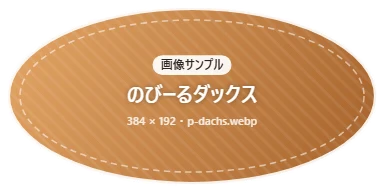
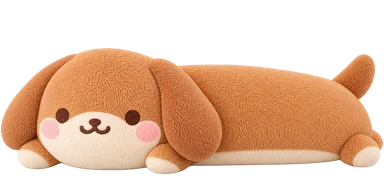
Update crane game assets and documentation
- Marked all images as generated in documentation for crane game.
- Updated the date in captures.json for crane game.
- Enhanced image rendering logic in game.js for better display of prizes.
- Replaced multiple image assets for crane game with new versions.
- Updated thumbnail images for crane game across various resolutions.

diff --git a/public/games/crane-game/game.js b/public/games/crane-game/game.js
@@ -622,13 +622,21 @@
       const bw = Math.min(V.w * 0.8, 340 * L.k), bh = bw * 0.55;
       ctx.fillStyle = 'rgba(255,255,255,.95)'; ctx.beginPath(); ctx.roundRect(-bw / 2, -bh / 2, bw, bh, 22); ctx.fill();
       ctx.strokeStyle = '#ff4f8b'; ctx.lineWidth = 5; ctx.stroke();
-      const isz = bh * 0.62;
-      if (img) { const iw = b.K.box || b.K.shape === 'long' ? isz * 1.6 : isz; ctx.drawImage(img, -bw / 2 + 18, -isz / 2 + 6, iw * (b.K.box ? 1 : 1), isz * (b.K.box ? 0.8 : b.K.shape === 'long' ? 0.8 : 1)); }
+      // the prize's picture in a box on the left, fitted with its own proportions (square plush, lying plush, wide box art);
+      // the words centred in what is left on the right
+      const pad = 18, wide = b.K.box || b.K.shape === 'long';
+      const areaW = bw * (wide ? 0.44 : 0.36), areaH = bh - pad * 2, ax = -bw / 2 + pad, ay = -bh / 2 + pad;
+      if (img) {
+        const iw = img.naturalWidth || img.width || areaW, ih = img.naturalHeight || img.height || areaH;
+        const sc = Math.min(areaW / iw, areaH / ih), dw = iw * sc, dh = ih * sc;
+        ctx.drawImage(img, ax + (areaW - dw) / 2, ay + (areaH - dh) / 2, dw, dh);
+      }
       ctx.textAlign = 'center'; ctx.textBaseline = 'middle';
-      const tx = (b.K.box || b.K.shape === 'long' ? 0.24 : 0.16) * bw;
-      ctx.font = font(bh * 0.24); ctx.fillStyle = '#ff2f6d'; ctx.fillText('ゲット！', tx, -bh * 0.16);
+      const textL = ax + areaW + 10, textR = bw / 2 - pad, tx = (textL + textR) / 2, maxW = textR - textL;
+      let gs = bh * 0.24; ctx.font = font(gs); while (ctx.measureText('ゲット！').width > maxW && gs > 14) { gs--; ctx.font = font(gs); }
+      ctx.fillStyle = '#ff2f6d'; ctx.fillText('ゲット！', tx, -bh * 0.16);
       ctx.font = font(Math.min(bh * 0.13, 20), 700); ctx.fillStyle = '#4a1d3a';
-      let nm = b.K.name; const maxW = bw * 0.5; let fs = Math.min(bh * 0.13, 20); while (ctx.measureText(nm).width > maxW && fs > 9) { fs--; ctx.font = font(fs, 700); }
+      let nm = b.K.name; let fs = Math.min(bh * 0.13, 20); while (ctx.measureText(nm).width > maxW && fs > 9) { fs--; ctx.font = font(fs, 700); }
       ctx.fillText(nm, tx, bh * 0.08);
       if (b.first) { ctx.font = font(Math.min(bh * 0.1, 14), 700); ctx.fillStyle = '#e2622b'; ctx.fillText('はじめての景品！', tx, bh * 0.28); }
       ctx.restore();

diff --git a/docs/games/prompts/all.md b/docs/games/prompts/all.md
@@ -4,7 +4,7 @@
 
 # クレーン横丁 ― 画像の生成プロンプト
 
-ゲーム: `public/games/crane-game/`（12 枚中 0 枚が生成済み、12 枚が画像サンプル）。このファイルは `npm run game-images` が `public/games/crane-game/images.json` から書き出します（直接編集しないでください）。
+ゲーム: `public/games/crane-game/`（12 枚中 12 枚が生成済み、0 枚が画像サンプル）。このファイルは `npm run game-images -- crane-game` が `public/games/crane-game/images.json` から書き出します（直接編集しないでください）。
 
 ## 全体のアートディレクション
 
@@ -21,18 +21,18 @@
 
 | | ファイル | サイズ | 種類 | 用途 | おすすめのツール |
 |---|---|---|---|---|---|
-| ⬜ | [`img/p-usa.webp`](#crane-game-p-usa) | 256×256（透過） | スプライト | ぬいぐるみの山の景品（機械の中・景品棚・ゲットの表示） | ChatGPT（画像生成 / GPT Image） |
-| ⬜ | [`img/p-neko.webp`](#crane-game-p-neko) | 256×256（透過） | スプライト | ぬいぐるみの山の景品（機械の中・景品棚・ゲットの表示） | ChatGPT（画像生成 / GPT Image） |
-| ⬜ | [`img/p-shiba.webp`](#crane-game-p-shiba) | 256×256（透過） | スプライト | ぬいぐるみの山の景品（機械の中・景品棚・ゲットの表示） | ChatGPT（画像生成 / GPT Image） |
-| ⬜ | [`img/p-pen.webp`](#crane-game-p-pen) | 256×256（透過） | スプライト | ぬいぐるみの山の景品（機械の中・景品棚・ゲットの表示） | ChatGPT（画像生成 / GPT Image） |
-| ⬜ | [`img/p-hiyo.webp`](#crane-game-p-hiyo) | 256×256（透過） | スプライト | ぬいぐるみの山の景品（機械の中・景品棚・ゲットの表示） | ChatGPT（画像生成 / GPT Image） |
-| ⬜ | [`img/p-kuma.webp`](#crane-game-p-kuma) | 256×256（透過） | スプライト | ぬいぐるみの山の景品（機械の中・景品棚・ゲットの表示） | ChatGPT（画像生成 / GPT Image） |
-| ⬜ | [`img/p-azarashi.webp`](#crane-game-p-azarashi) | 384×192（透過） | スプライト | ぬいぐるみの山の細長い景品（向きに合わせて回転して表示） | ChatGPT（画像生成 / GPT Image） |
-| ⬜ | [`img/p-dachs.webp`](#crane-game-p-dachs) | 384×192（透過） | スプライト | ぬいぐるみの山の細長い景品（向きに合わせて回転して表示） | ChatGPT（画像生成 / GPT Image） |
-| ⬜ | [`img/box-snack.webp`](#crane-game-box-snack) | 350×140 | カード | 橋渡しの景品の箱の正面・景品棚 | Recraft（V3） |
-| ⬜ | [`img/box-robo.webp`](#crane-game-box-robo) | 350×140 | カード | 橋渡しの景品の箱の正面・景品棚 | Recraft（V3） |
-| ⬜ | [`img/bg.webp`](#crane-game-bg) | 1600×1000 | 背景 | プレイ画面の背景（機械のまわりに暗くして表示） | Midjourney（v7） |
-| ⬜ | [`img/key.webp`](#crane-game-key) | 1600×900 | キービジュアル | タイトル画面の背景 | niji・journey（Midjourney の `--niji 6`） |
+| ✅ | [`img/p-usa.webp`](#crane-game-p-usa) | 256×256（透過） | スプライト | ぬいぐるみの山の景品（機械の中・景品棚・ゲットの表示） | ChatGPT（画像生成 / GPT Image） |
+| ✅ | [`img/p-neko.webp`](#crane-game-p-neko) | 256×256（透過） | スプライト | ぬいぐるみの山の景品（機械の中・景品棚・ゲットの表示） | ChatGPT（画像生成 / GPT Image） |
+| ✅ | [`img/p-shiba.webp`](#crane-game-p-shiba) | 256×256（透過） | スプライト | ぬいぐるみの山の景品（機械の中・景品棚・ゲットの表示） | ChatGPT（画像生成 / GPT Image） |
+| ✅ | [`img/p-pen.webp`](#crane-game-p-pen) | 256×256（透過） | スプライト | ぬいぐるみの山の景品（機械の中・景品棚・ゲットの表示） | ChatGPT（画像生成 / GPT Image） |
+| ✅ | [`img/p-hiyo.webp`](#crane-game-p-hiyo) | 256×256（透過） | スプライト | ぬいぐるみの山の景品（機械の中・景品棚・ゲットの表示） | ChatGPT（画像生成 / GPT Image） |
+| ✅ | [`img/p-kuma.webp`](#crane-game-p-kuma) | 256×256（透過） | スプライト | ぬいぐるみの山の景品（機械の中・景品棚・ゲットの表示） | ChatGPT（画像生成 / GPT Image） |
+| ✅ | [`img/p-azarashi.webp`](#crane-game-p-azarashi) | 384×192（透過） | スプライト | ぬいぐるみの山の細長い景品（向きに合わせて回転して表示） | ChatGPT（画像生成 / GPT Image） |
+| ✅ | [`img/p-dachs.webp`](#crane-game-p-dachs) | 384×192（透過） | スプライト | ぬいぐるみの山の細長い景品（向きに合わせて回転して表示） | ChatGPT（画像生成 / GPT Image） |
+| ✅ | [`img/box-snack.webp`](#crane-game-box-snack) | 350×140 | カード | 橋渡しの景品の箱の正面・景品棚 | Recraft（V3） |
+| ✅ | [`img/box-robo.webp`](#crane-game-box-robo) | 350×140 | カード | 橋渡しの景品の箱の正面・景品棚 | Recraft（V3） |
+| ✅ | [`img/bg.webp`](#crane-game-bg) | 1600×1000 | 背景 | プレイ画面の背景（機械のまわりに暗くして表示） | Midjourney（v7） |
+| ✅ | [`img/key.webp`](#crane-game-key) | 1600×900 | キービジュアル | タイトル画面の背景 | niji・journey（Midjourney の `--niji 6`） |
 
 ⬜ = 画像サンプルのまま　✅ = 生成した画像に差し替え済み
 

diff --git a/docs/games/prompts/crane-game.md b/docs/games/prompts/crane-game.md
@@ -1,6 +1,6 @@
 # クレーン横丁 ― 画像の生成プロンプト
 
-ゲーム: `public/games/crane-game/`（12 枚中 0 枚が生成済み、12 枚が画像サンプル）。このファイルは `npm run game-images` が `public/games/crane-game/images.json` から書き出します（直接編集しないでください）。
+ゲーム: `public/games/crane-game/`（12 枚中 12 枚が生成済み、0 枚が画像サンプル）。このファイルは `npm run game-images -- crane-game` が `public/games/crane-game/images.json` から書き出します（直接編集しないでください）。
 
 ## 全体のアートディレクション
 
@@ -17,18 +17,18 @@
 
 | | ファイル | サイズ | 種類 | 用途 | おすすめのツール |
 |---|---|---|---|---|---|
-| ⬜ | [`img/p-usa.webp`](#p-usa) | 256×256（透過） | スプライト | ぬいぐるみの山の景品（機械の中・景品棚・ゲットの表示） | ChatGPT（画像生成 / GPT Image） |
-| ⬜ | [`img/p-neko.webp`](#p-neko) | 256×256（透過） | スプライト | ぬいぐるみの山の景品（機械の中・景品棚・ゲットの表示） | ChatGPT（画像生成 / GPT Image） |
-| ⬜ | [`img/p-shiba.webp`](#p-shiba) | 256×256（透過） | スプライト | ぬいぐるみの山の景品（機械の中・景品棚・ゲットの表示） | ChatGPT（画像生成 / GPT Image） |
-| ⬜ | [`img/p-pen.webp`](#p-pen) | 256×256（透過） | スプライト | ぬいぐるみの山の景品（機械の中・景品棚・ゲットの表示） | ChatGPT（画像生成 / GPT Image） |
-| ⬜ | [`img/p-hiyo.webp`](#p-hiyo) | 256×256（透過） | スプライト | ぬいぐるみの山の景品（機械の中・景品棚・ゲットの表示） | ChatGPT（画像生成 / GPT Image） |
-| ⬜ | [`img/p-kuma.webp`](#p-kuma) | 256×256（透過） | スプライト | ぬいぐるみの山の景品（機械の中・景品棚・ゲットの表示） | ChatGPT（画像生成 / GPT Image） |
-| ⬜ | [`img/p-azarashi.webp`](#p-azarashi) | 384×192（透過） | スプライト | ぬいぐるみの山の細長い景品（向きに合わせて回転して表示） | ChatGPT（画像生成 / GPT Image） |
-| ⬜ | [`img/p-dachs.webp`](#p-dachs) | 384×192（透過） | スプライト | ぬいぐるみの山の細長い景品（向きに合わせて回転して表示） | ChatGPT（画像生成 / GPT Image） |
-| ⬜ | [`img/box-snack.webp`](#box-snack) | 350×140 | カード | 橋渡しの景品の箱の正面・景品棚 | Recraft（V3） |
-| ⬜ | [`img/box-robo.webp`](#box-robo) | 350×140 | カード | 橋渡しの景品の箱の正面・景品棚 | Recraft（V3） |
-| ⬜ | [`img/bg.webp`](#bg) | 1600×1000 | 背景 | プレイ画面の背景（機械のまわりに暗くして表示） | Midjourney（v7） |
-| ⬜ | [`img/key.webp`](#key) | 1600×900 | キービジュアル | タイトル画面の背景 | niji・journey（Midjourney の `--niji 6`） |
+| ✅ | [`img/p-usa.webp`](#p-usa) | 256×256（透過） | スプライト | ぬいぐるみの山の景品（機械の中・景品棚・ゲットの表示） | ChatGPT（画像生成 / GPT Image） |
+| ✅ | [`img/p-neko.webp`](#p-neko) | 256×256（透過） | スプライト | ぬいぐるみの山の景品（機械の中・景品棚・ゲットの表示） | ChatGPT（画像生成 / GPT Image） |
+| ✅ | [`img/p-shiba.webp`](#p-shiba) | 256×256（透過） | スプライト | ぬいぐるみの山の景品（機械の中・景品棚・ゲットの表示） | ChatGPT（画像生成 / GPT Image） |
+| ✅ | [`img/p-pen.webp`](#p-pen) | 256×256（透過） | スプライト | ぬいぐるみの山の景品（機械の中・景品棚・ゲットの表示） | ChatGPT（画像生成 / GPT Image） |
+| ✅ | [`img/p-hiyo.webp`](#p-hiyo) | 256×256（透過） | スプライト | ぬいぐるみの山の景品（機械の中・景品棚・ゲットの表示） | ChatGPT（画像生成 / GPT Image） |
+| ✅ | [`img/p-kuma.webp`](#p-kuma) | 256×256（透過） | スプライト | ぬいぐるみの山の景品（機械の中・景品棚・ゲットの表示） | ChatGPT（画像生成 / GPT Image） |
+| ✅ | [`img/p-azarashi.webp`](#p-azarashi) | 384×192（透過） | スプライト | ぬいぐるみの山の細長い景品（向きに合わせて回転して表示） | ChatGPT（画像生成 / GPT Image） |
+| ✅ | [`img/p-dachs.webp`](#p-dachs) | 384×192（透過） | スプライト | ぬいぐるみの山の細長い景品（向きに合わせて回転して表示） | ChatGPT（画像生成 / GPT Image） |
+| ✅ | [`img/box-snack.webp`](#box-snack) | 350×140 | カード | 橋渡しの景品の箱の正面・景品棚 | Recraft（V3） |
+| ✅ | [`img/box-robo.webp`](#box-robo) | 350×140 | カード | 橋渡しの景品の箱の正面・景品棚 | Recraft（V3） |
+| ✅ | [`img/bg.webp`](#bg) | 1600×1000 | 背景 | プレイ画面の背景（機械のまわりに暗くして表示） | Midjourney（v7） |
+| ✅ | [`img/key.webp`](#key) | 1600×900 | キービジュアル | タイトル画面の背景 | niji・journey（Midjourney の `--niji 6`） |
 
 ⬜ = 画像サンプルのまま　✅ = 生成した画像に差し替え済み
 

diff --git a/docs/games/prompts/README.md b/docs/games/prompts/README.md
@@ -4,7 +4,7 @@
 
 | ゲーム | 画像 | 生成済み | 使うツール |
 |---|---|---|---|
-| [クレーン横丁](crane-game.md) | 12 枚 | 0 枚 | ChatGPT、Recraft、Midjourney、niji・journey |
+| [クレーン横丁](crane-game.md) | 12 枚 | 12 枚 | ChatGPT、Recraft、Midjourney、niji・journey |
 | [番狂わせ大富豪](daifugo.md) | 11 枚 | 0 枚 | Midjourney、Leonardo.Ai、niji・journey、Gemini |
 | [ことば花火 ― 打って打ち上げるタイピング](hanabi-typing.md) | 5 枚 | 0 枚 | Midjourney、Ideogram、Gemini |
 | [花暦こいこい](hanafuda-koikoi.md) | 53 枚 | 0 枚 | Midjourney、Ideogram、Adobe Firefly、niji・journey |
@@ -24,7 +24,7 @@
 | [こしば日和](shiba-ikusei.md) | 14 枚 | 0 枚 | niji・journey、Midjourney、Stable Diffusion XL、ChatGPT |
 | [縁側将棋](shogi.md) | 7 枚 | 0 枚 | Midjourney、niji・journey、ChatGPT |
 | [和菓子ころりん](wagashi-merge.md) | 14 枚 | 0 枚 | Leonardo.Ai、ChatGPT、Midjourney、Ideogram |
-| **合計** | **238 枚** | **0 枚** | |
+| **合計** | **238 枚** | **12 枚** | |
 
 ## ツールごとの使い分け
 
